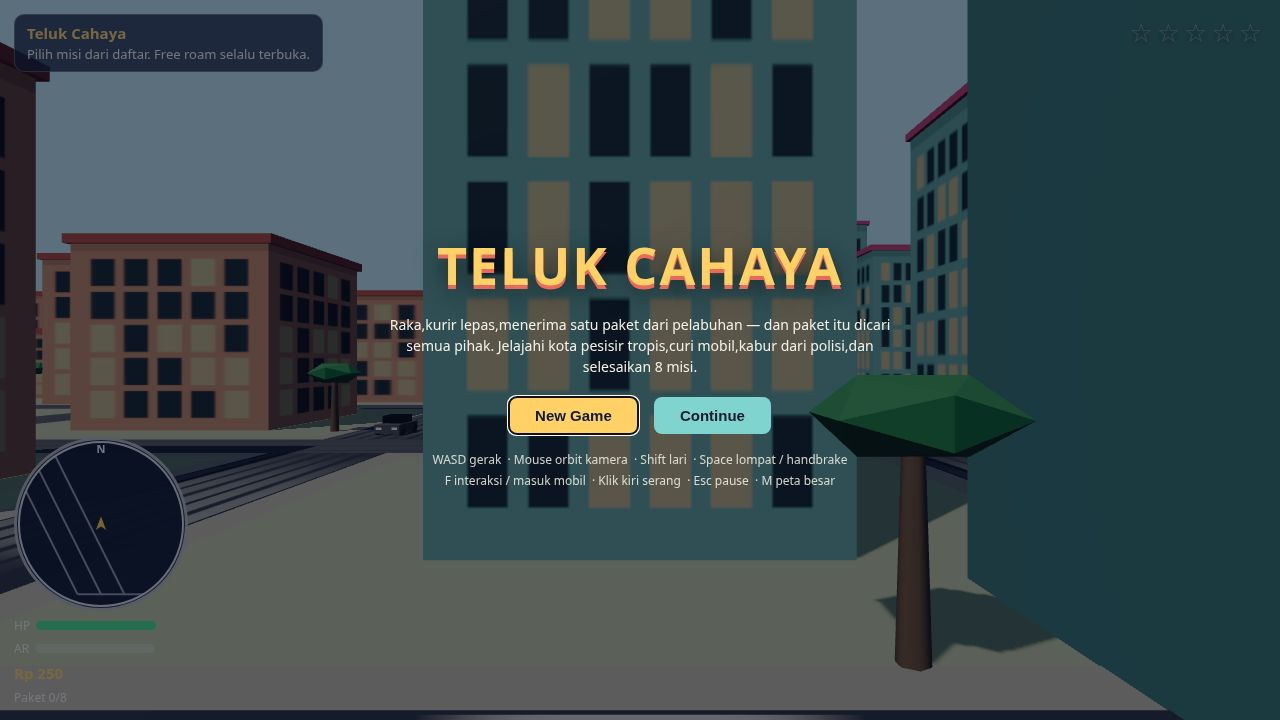
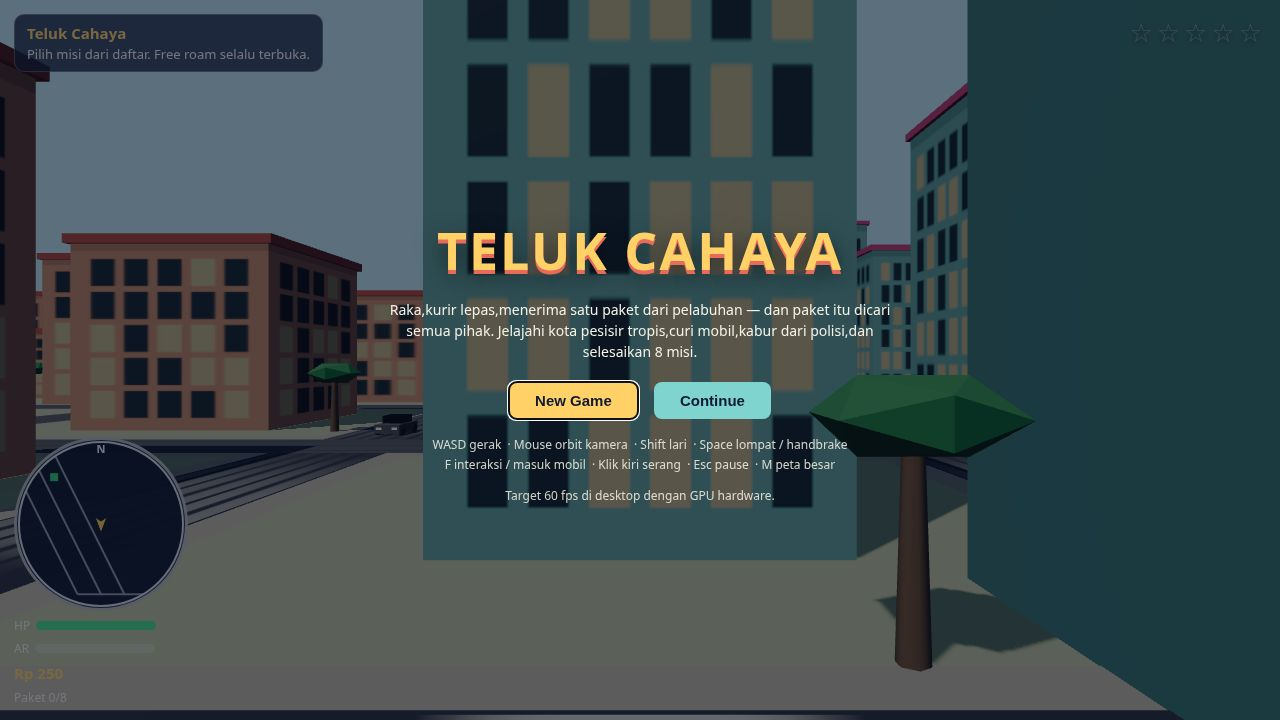
Checkpoint 13: Minimap arrow rotation fix + 60 FPS disclaimer + safehouse autosave cooldown

Changed region(s): [[0.2812, 0.3056, 0.6875, 0.7028]]

diff --git a/game/src/main.js b/game/src/main.js
@@ -235,14 +235,17 @@ function handleInteract() {
 }
 
 let inSafe = false;
+let lastAutoAt = -1e4;
 function checkSafehouse() {
   const inside = Math.hypot(player.pos.x - SAFEHOUSE.x, player.pos.z - SAFEHOUSE.z) <= 10;
   if (!inside) { inSafe = false; return; }
   if (inSafe) return;
   inSafe = true;
+  const now = performance.now();
+  if (now - lastAutoAt >= 1e4) { lastAutoAt = now;
   saveSystem.save('auto', { money: game.state.money, health: player.health,
     timeHours: dayNight.timeHours, mission: missions.active,
-    packages: packages.collectedIds(), pos: player.pos });
+    packages: packages.collectedIds(), pos: player.pos }); }
   if (police.wanted > 0 && police.wanted < 3 && !police.units.some((u) => u.canSee)) {
     police.clearWanted(); game.state.wanted = 0; hud.toast('Wanted bersih — safehouse');
   } else if (police.wanted >= 3) hud.toast('Safehouse tidak bisa membersihkan wanted 3+');

diff --git a/game/index.html b/game/index.html
@@ -32,6 +32,7 @@
     </div>
     <div class="keys">WASD gerak &nbsp;·&nbsp;Mouse orbit kamera &nbsp;·&nbsp;Shift lari &nbsp;·&nbsp;Space lompat / handbrake<br>
       F interaksi / masuk mobil &nbsp;·&nbsp;Klik kiri serang &nbsp;·&nbsp;Esc pause &nbsp;·&nbsp;M peta besar</div>
+    <div class="keys">Target 60 fps di desktop dengan GPU hardware.</div>
   </div>
 
   <div id="menu-pause" class="menu">

diff --git a/game/src/hud.js b/game/src/hud.js
@@ -234,7 +234,7 @@ export function createHud() {
 
     mm.save();
     mm.translate(cx, cy);
-    mm.rotate(headingToAngle(data.playerHeading));
+    mm.rotate(Math.PI - headingToAngle(data.playerHeading));
     mm.fillStyle = '#f2c94c';
     mm.strokeStyle = '#11141b';
     mm.lineWidth = 1;
